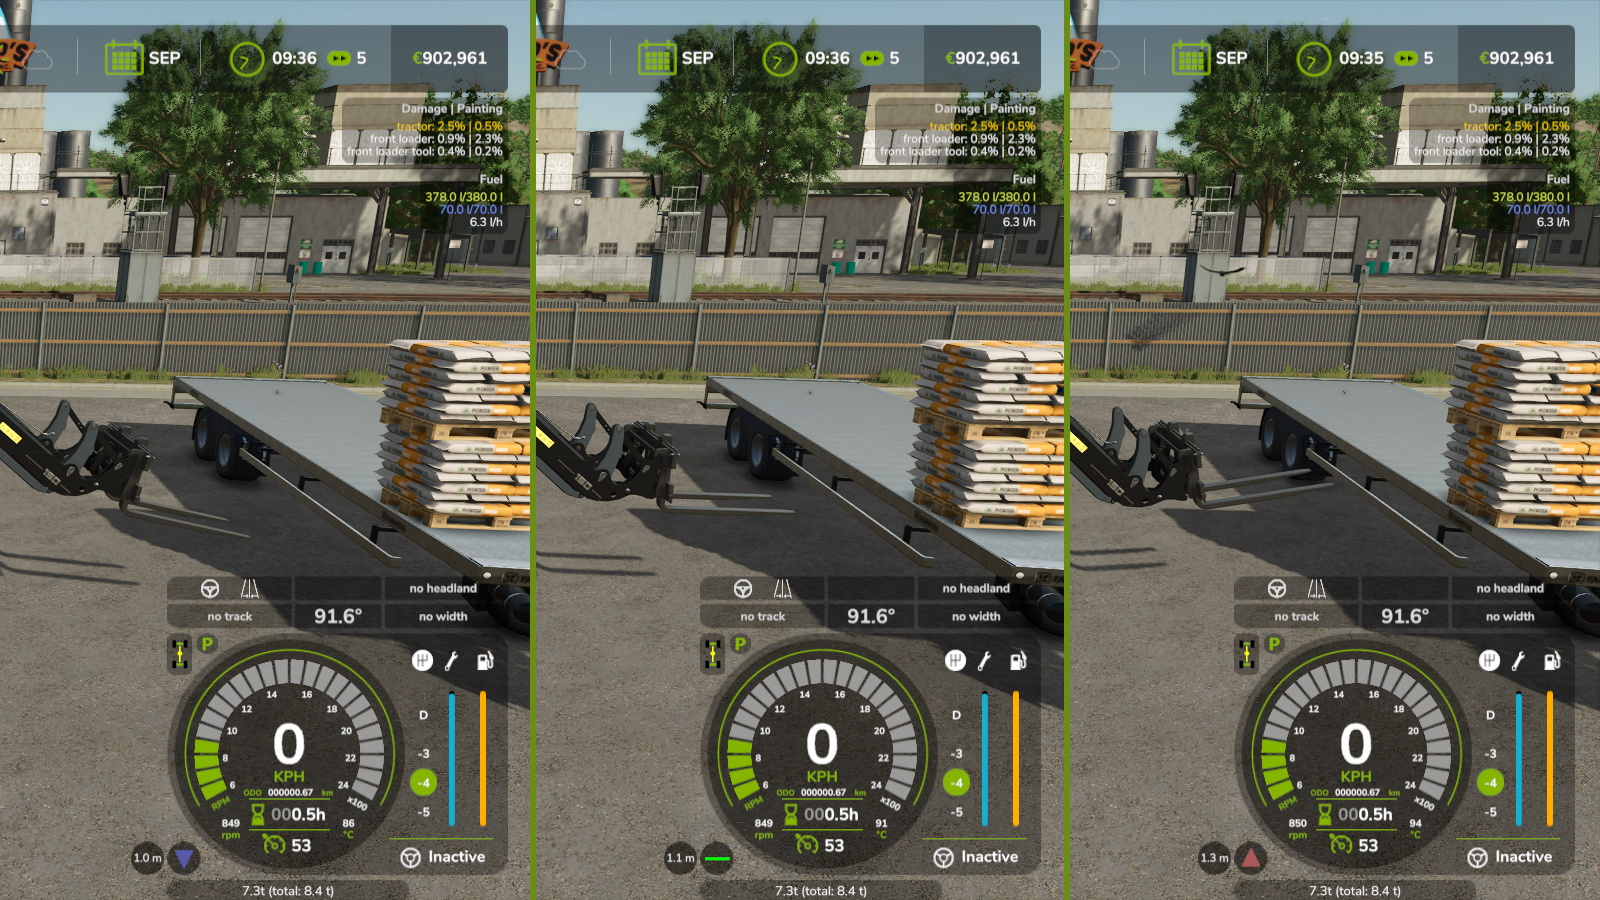
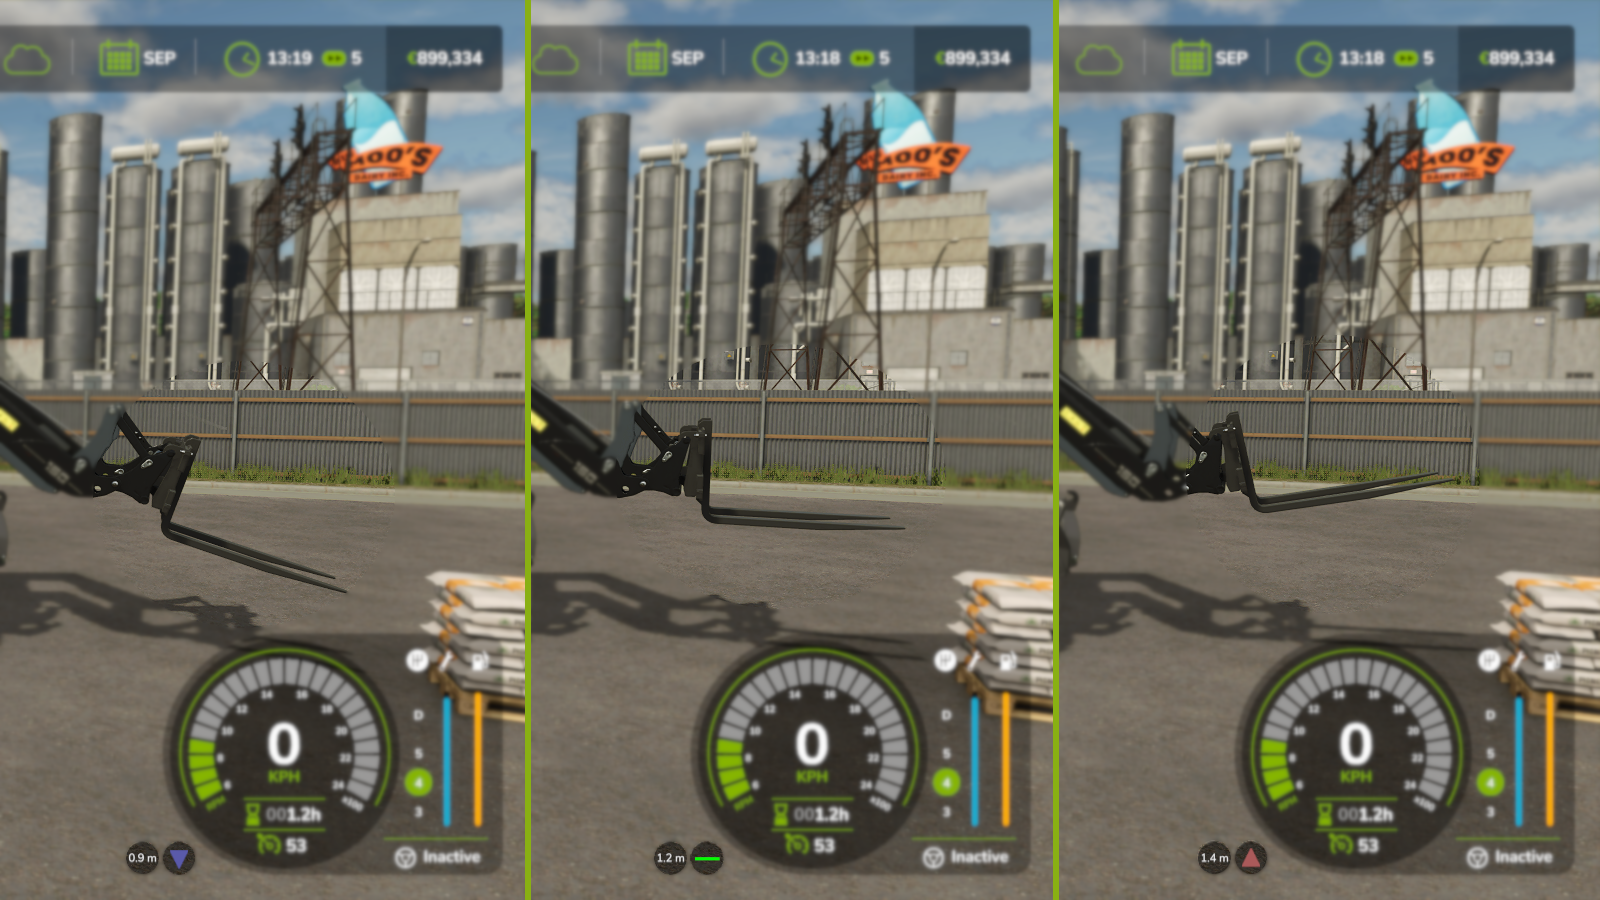
Update readme

diff --git a/README.md b/README.md
@@ -1,8 +1,9 @@
-# FS25_ForkLeveler
+# FS25_ToolInclinationHelper
 
 ## Acknowledgements
 
 The mod icon uses icons from [Forklift icons created by Freepik - Flaticon](https://www.flaticon.com/free-icons/forklift)
+Some ideas for basic overlay usage were taken from https://github.com/ZhooL/FS25_EnhancedVehicle/tree/main
 
 ## Modhub Link
 
@@ -11,6 +12,7 @@ pending
 ## Mod description
 
 This mod displays whether or not your forks (or other implements) are level (= horizontal orientation) or not.
+Additionally, it displays the distance of the tool to the ground or to whatever is below it (bales, pallets, trailer, ...).
 
 You can choose between icons or degrees in the settings, you can turn on or off color coding if set to "degrees", and you can move the display around, if needed.
 
@@ -22,15 +24,18 @@ Note that the "level" orientation depends on how the tool was designed.
 ![](screenshots/screen1.png)
 ![](screenshots/screen2.png)
 ![](screenshots/screen3.png)
+![](screenshots/screen4.png)
 
 ## How to install
 
-TODO
+1. Download the newest zip from the [Releases page](https://github.com/Timmeey86/FS25_ToolInclinationHelper/releases)
+1. Place the zip file in your FS25 mod folder
+1. Start the game and use like any other mod
 
 ## How to debug/code
 
 1. Obviously, own a copy of Farming Simulator 25
 1. Clone this folder anywhere
 1. Use Visual Code with at least the Lua Language Server Plugin for coding
-1. When testing, execute copytofs.bat and open that mod folder in Giants Studio
-1. Debug in Giants Studio
+1. When testing, execute copytofs.bat
+1. Debug in Giants Studio or just launch the game
